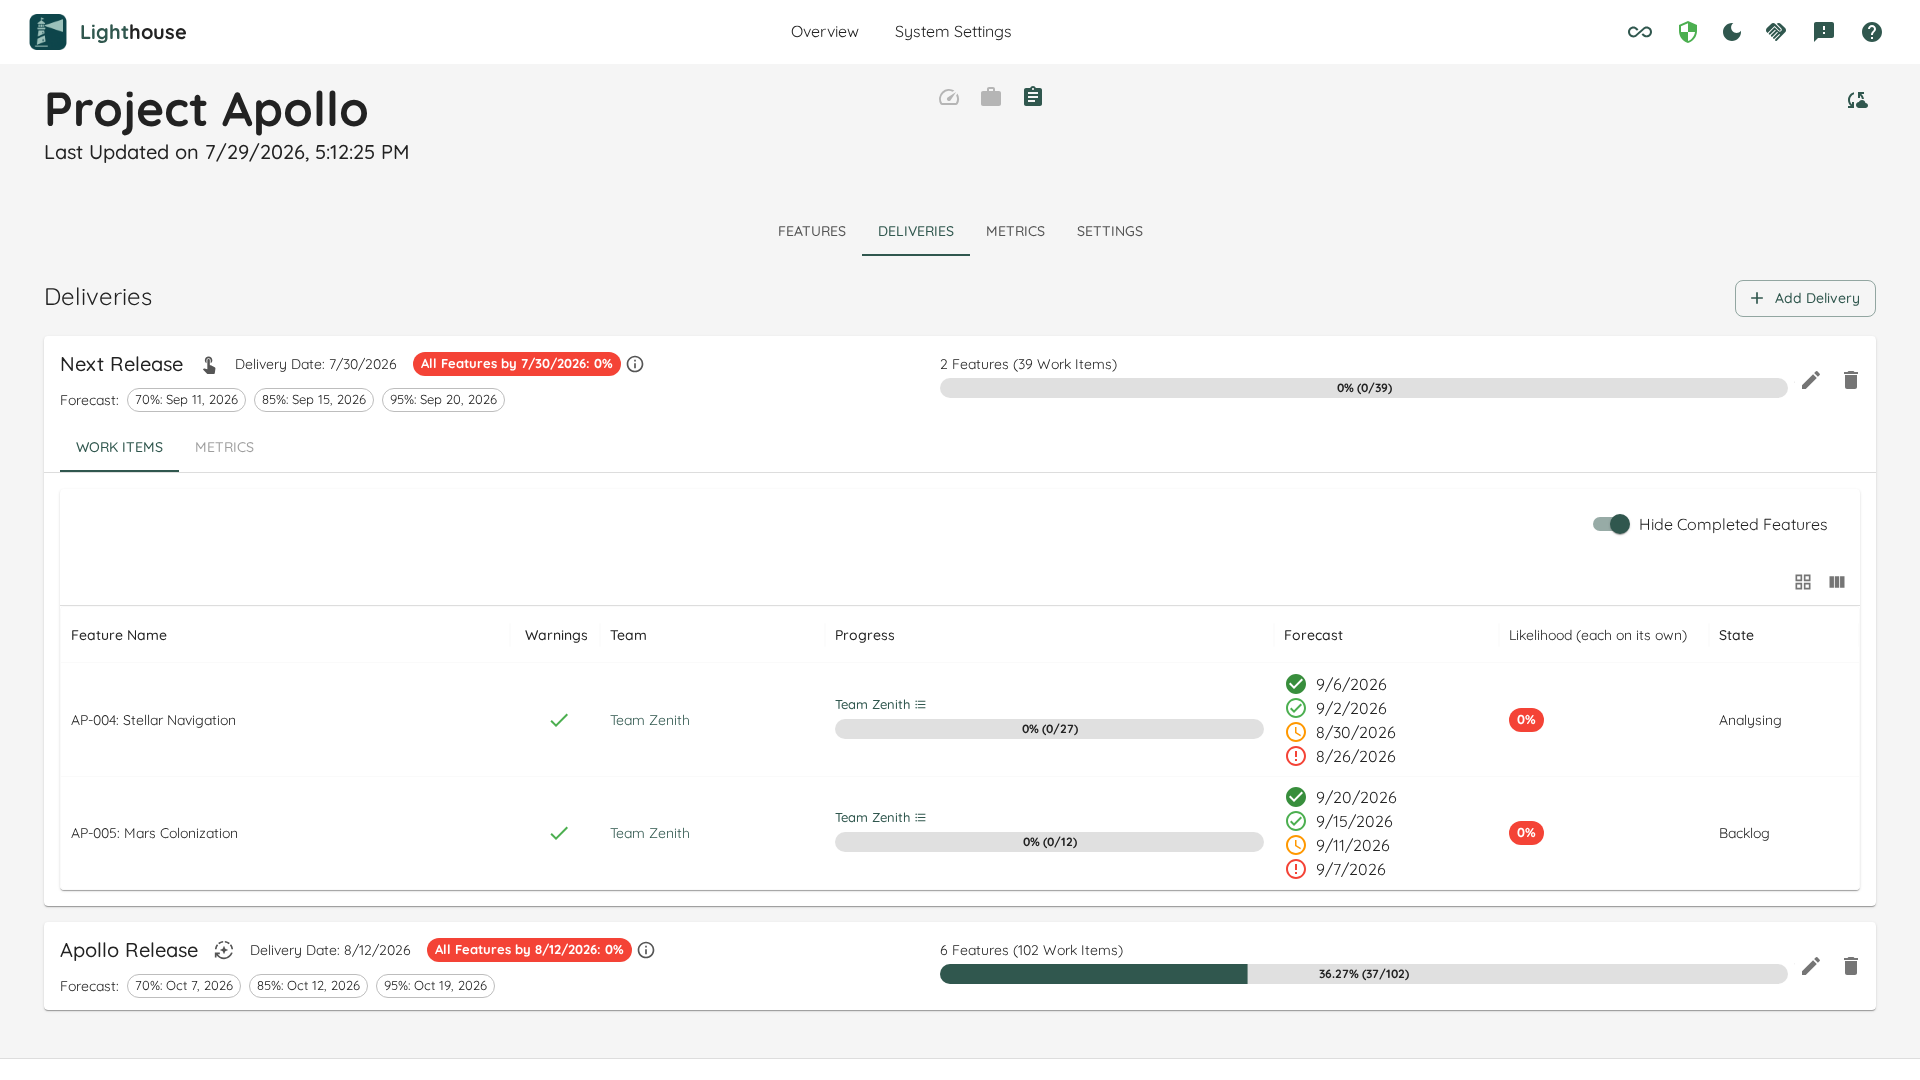
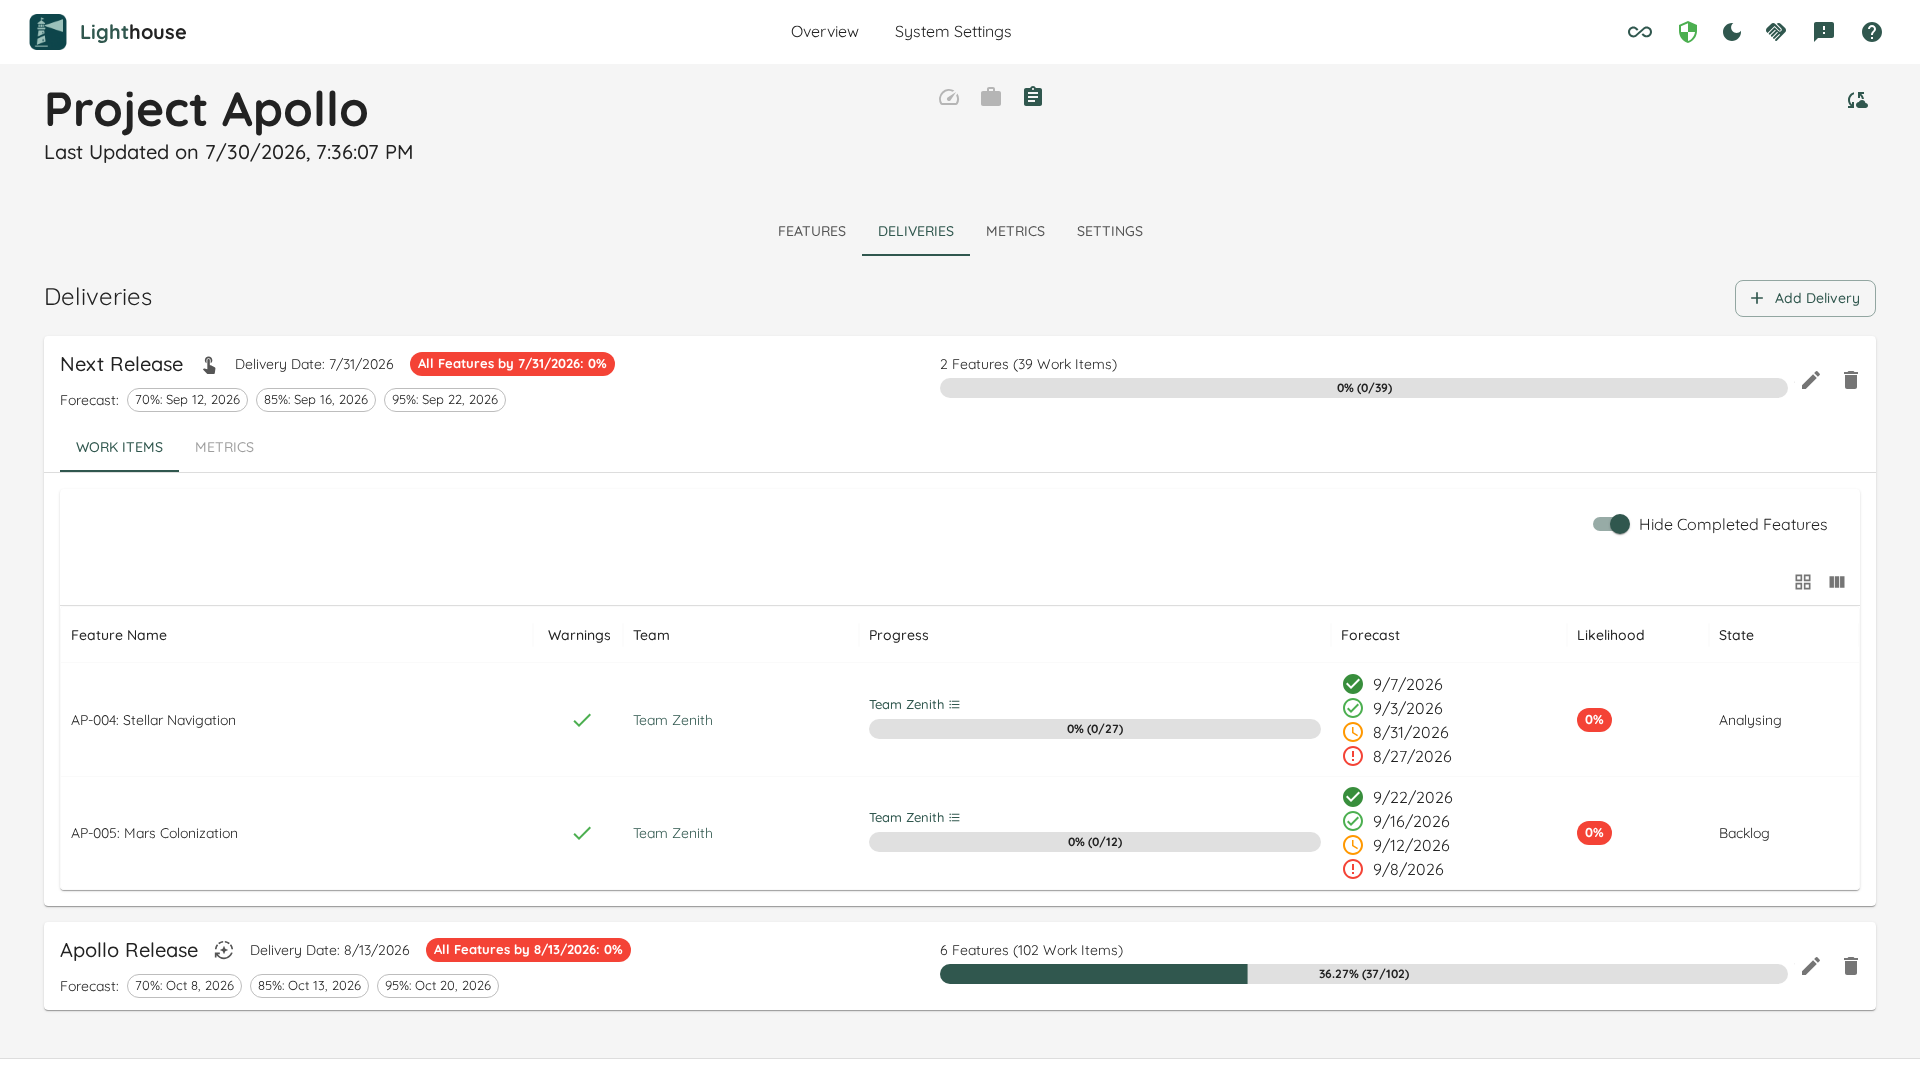
feat(deliveries): drop the joint/marginal tooltips from the delivery grid
The delivery header chip already says "All {features} by {date}: NN%", which
is the whole framing a reader needs. The two affordances ADR-113 D1 paired
with it - an info icon explaining "P(ALL of these land by the date)" and a
column header reading "Likelihood (each on its own)" with its own tooltip -
explained the probability model in the UI rather than letting the copy carry
it. The maintainer asked for both to go: the column is now a plain
"Likelihood" and the icon is gone.

Journey D1 and jobs.yaml record the revision so the SSOT does not keep
describing tooltips that no longer ship; the delivery screenshots are
regenerated against the new UI.

Claude-Session: https://claude.ai/code/session_018ji5MnEZuKd9jTGQ3m3Lks

diff --git a/Lighthouse.Frontend/src/pages/Portfolios/Detail/Components/DeliveryGrid/DeliverySection.tsx b/Lighthouse.Frontend/src/pages/Portfolios/Detail/Components/DeliveryGrid/DeliverySection.tsx
@@ -2,7 +2,6 @@ import AutoModeIcon from "@mui/icons-material/AutoMode";
 import DeleteIcon from "@mui/icons-material/Delete";
 import EditIcon from "@mui/icons-material/Edit";
 import ExpandMoreIcon from "@mui/icons-material/ExpandMore";
-import InfoOutlinedIcon from "@mui/icons-material/InfoOutlined";
 import TouchAppIcon from "@mui/icons-material/TouchApp";
 import {
 	Accordion,
@@ -17,7 +16,7 @@ import {
 	Tooltip,
 	Typography,
 } from "@mui/material";
-import { type GridValidRowModel, gridClasses } from "@mui/x-data-grid";
+import type { GridValidRowModel } from "@mui/x-data-grid";
 import type React from "react";
 import { useCallback, useContext, useMemo, useState } from "react";
 import DeliveryBurnupChart from "../../../../../components/Common/Charts/DeliveryBurnupChart";
@@ -59,10 +58,8 @@ import { jointLikelihoodLabel } from "../../../../../utils/forecast/jointLikelih
 
 export const MINIMUM_METRIC_SNAPSHOTS = 3;
 
-// Locked copy, ADR-113 D1. Nothing here may promise the header is lower than every row (D5).
-const JOINT_LIKELIHOOD_TOOLTIP = "P(ALL of these land by the date)";
-const MARGINAL_LIKELIHOOD_HEADER = "Likelihood (each on its own)";
-const MARGINAL_LIKELIHOOD_TOOLTIP = "P(this one lands), ignoring the others";
+// ADR-113 D1. Nothing here may promise the header is lower than every row (D5).
+const MARGINAL_LIKELIHOOD_HEADER = "Likelihood";
 
 interface DeliverySectionProps {
 	delivery: Delivery;
@@ -233,15 +230,7 @@ const DeliverySection: React.FC<DeliverySectionProps> = ({
 			{
 				field: "likelihood",
 				headerName: MARGINAL_LIKELIHOOD_HEADER,
-				renderHeader: ({ colDef }) => (
-					<div
-						className={gridClasses.columnHeaderTitle}
-						title={MARGINAL_LIKELIHOOD_TOOLTIP}
-					>
-						{colDef.headerName}
-					</div>
-				),
-				minWidth: 210,
+				minWidth: 110,
 				flex: 0.3,
 				sortable: false,
 				renderCell: ({ row }) =>
@@ -272,7 +261,6 @@ const DeliverySection: React.FC<DeliverySectionProps> = ({
 		hasSufficientData: delivery.hasSufficientData,
 	});
 	let likelihoodLabel: string;
-	let jointFramingTooltip: string | undefined;
 	if (deliveryCannotBeForecast || deliveryLikelihood === null) {
 		likelihoodLabel = CANNOT_FORECAST_SHORT;
 	} else if (hasInsufficientData) {
@@ -286,7 +274,6 @@ const DeliverySection: React.FC<DeliverySectionProps> = ({
 				precision: "round",
 			}),
 		});
-		jointFramingTooltip = JOINT_LIKELIHOOD_TOOLTIP;
 	}
 
 	return (
@@ -426,46 +413,20 @@ const DeliverySection: React.FC<DeliverySectionProps> = ({
 										<Typography variant="body2" color="text.secondary">
 											Delivery Date: {delivery.getFormattedDate()}
 										</Typography>
-										<Box
+										<Chip
+											title={
+												deliveryCannotBeForecast
+													? cannotForecastReason(teamsWithoutForecast)
+													: undefined
+											}
+											label={likelihoodLabel}
+											size="small"
 											sx={{
-												display: "flex",
-												alignItems: "center",
-												gap: 0.5,
+												bgcolor: forecastLevel.color,
+												color: "#fff",
+												fontWeight: "bold",
 											}}
-										>
-											<Chip
-												title={
-													deliveryCannotBeForecast
-														? cannotForecastReason(teamsWithoutForecast)
-														: undefined
-												}
-												label={likelihoodLabel}
-												size="small"
-												sx={{
-													bgcolor: forecastLevel.color,
-													color: "#fff",
-													fontWeight: "bold",
-												}}
-											/>
-											{jointFramingTooltip && (
-												// title alone is mouse-only: the icon is aria-hidden and the
-												// span has no role, so the explanation would never reach a
-												// screen reader (R3 keeps title for the tests).
-												<Box
-													component="span"
-													role="img"
-													aria-label={jointFramingTooltip}
-													title={jointFramingTooltip}
-													sx={{
-														display: "flex",
-														alignItems: "center",
-														color: "text.secondary",
-													}}
-												>
-													<InfoOutlinedIcon fontSize="small" />
-												</Box>
-											)}
-										</Box>
+										/>
 									</Box>
 									<Box
 										sx={{

diff --git a/Lighthouse.Frontend/src/pages/Portfolios/Detail/Components/DeliveryGrid/DeliverySection.likelihoodCopy.test.tsx b/Lighthouse.Frontend/src/pages/Portfolios/Detail/Components/DeliveryGrid/DeliverySection.likelihoodCopy.test.tsx
@@ -13,9 +13,10 @@ import DeliverySection from "./DeliverySection";
  *
  * D1 is locked by the maintainer and is not re-designed here:
  *   header chip  → `All {featuresTerm} by {delivery.getFormattedDate()}: NN%`
- *                  info affordance → "P(ALL of these land by the date)"
- *   grid column  → "Likelihood (each on its own)"
- *                  header affordance → "P(this one lands), ignoring the others"
+ *   grid column  → "Likelihood"
+ *
+ * The explanatory affordances D1 originally paired with both surfaces were dropped on maintainer
+ * request (follow-up to Epic #5459): the framing stays in the header copy, the UI stops explaining it.
  *
  * Constraint A (terminology): every new domain noun comes from `getTerm(TERMINOLOGY_KEYS.FEATURES)`.
  * The terminology mock below is deliberately parameterised per test — a mock that hardcodes "Feature"
@@ -72,9 +73,6 @@ const DEFAULT_TERMINOLOGY: Record<string, string> = {
 	deliveries: "Deliveries",
 	workItems: "Work Items",
 };
-
-const HEADER_TOOLTIP = "P(ALL of these land by the date)";
-const COLUMN_TOOLTIP = "P(this one lands), ignoring the others";
 
 const teams: IEntityReference[] = [{ id: 1, name: "Team Alpha" }];
 
@@ -149,22 +147,12 @@ describe("DeliverySection joint/marginal copy (Story #5587 slice-03)", () => {
 		).toBeInTheDocument();
 	});
 
-	it("explains on the header what ALL means (AC-03.1)", () => {
-		renderSection(deliveryWith({}));
+	it("names the breakdown column plainly, with no explanatory affordance (AC-03.2)", () => {
+		const { container } = renderSection(deliveryWith({}));
 
-		// DT-14: the affordance carries the copy in a native `title`, the same mechanism the header
-		// chip already uses for cannotForecastReason. Queryable from RTL and from Playwright without
-		// a hover, which an MUI <Tooltip> is not.
-		expect(screen.getByTitle(HEADER_TOOLTIP)).toBeInTheDocument();
-	});
-
-	it("frames the breakdown column as the per-feature probability and says what it ignores (AC-03.2)", () => {
-		renderSection(deliveryWith({}));
-
-		expect(
-			screen.getByText(/Likelihood \(each on its own\)/),
-		).toBeInTheDocument();
-		expect(screen.getByTitle(COLUMN_TOOLTIP)).toBeInTheDocument();
+		expect(screen.getByText("Likelihood")).toBeInTheDocument();
+		expect(screen.queryByText(/each on its own/)).not.toBeInTheDocument();
+		expect(container.querySelector('[title*="P("]')).toBeNull();
 	});
 
 	it("builds the header from the renamed vocabulary rather than a literal (AC-03.3)", () => {
@@ -241,11 +229,6 @@ describe("DeliverySection states slice-03 must leave alone (Story #5587)", () =>
 			screen.getByTitle(/No throughput history for Team Meridian/),
 		).toBeInTheDocument();
 		expect(screen.queryByText(/^All /)).not.toBeInTheDocument();
-
-		// The affordance carries its copy in a title ATTRIBUTE, which queryByText cannot see - so
-		// without this the whole "only in the numeric state" rule is invisible and a "Cannot forecast"
-		// chip could ship beside a tooltip promising odds.
-		expect(screen.queryByTitle(HEADER_TOOLTIP)).not.toBeInTheDocument();
 	});
 
 	it("keeps the not-enough-data label, without the joint framing (AC-03.5, AC-02.6)", () => {
@@ -257,7 +240,6 @@ describe("DeliverySection states slice-03 must leave alone (Story #5587)", () =>
 
 		expect(screen.getByText(/not enough data/i)).toBeInTheDocument();
 		expect(screen.queryByText(/^All /)).not.toBeInTheDocument();
-		expect(screen.queryByTitle(HEADER_TOOLTIP)).not.toBeInTheDocument();
 	});
 
 	it("keeps the per-row chip's own cannot-forecast tooltip alongside the column header (AC-03.6)", () => {

diff --git a/Lighthouse.EndToEndTests/tests/specs/portfolios/DeliveryJointLikelihood.spec.ts b/Lighthouse.EndToEndTests/tests/specs/portfolios/DeliveryJointLikelihood.spec.ts
@@ -18,8 +18,8 @@ import {
  *
  * What this asserts, and what it deliberately does NOT:
  *   DOES  — the delivery header states it covers ALL features and carries the date (AC-03.1), the
- *           breakdown column states it ignores the others (AC-03.2), and both render in the real app
- *           with real terminology rather than a mocked getTerm.
+ *           breakdown column is named plainly (AC-03.2), and both render in the real app with real
+ *           terminology rather than a mocked getTerm.
  *   NOT   — the joint MATHS. Demo throughput moves, so pinning a percentage here would be a flake
  *           generator; the number is pinned in DeliveryJointForecastIntegrationTest, which asserts
  *           81 % against the same endpoint where the governing-feature answer is 90 %.
@@ -64,21 +64,13 @@ test("@walking_skeleton @driving_adapter @real-io @US-03 forecaster reads which 
 		await expect(delivery.forecastChip).not.toContainText(/lower than/i);
 	});
 
-	await test.step("the header explains what ALL means", async () => {
-		await expect(
-			delivery.container.getByTitle("P(ALL of these land by the date)"),
-		).toBeAttached();
-	});
-
-	await test.step("the breakdown column says it ignores the other features", async () => {
+	await test.step("the breakdown column is named plainly", async () => {
 		await delivery.toggleDetails();
 
-		await expect(delivery.likelihoodColumnHeader).toContainText(
+		await expect(delivery.likelihoodColumnHeader).toContainText("Likelihood");
+		await expect(delivery.likelihoodColumnHeader).not.toContainText(
 			"each on its own",
 		);
-		await expect(
-			page.getByTitle("P(this one lands), ignoring the others"),
-		).toBeAttached();
 	});
 });
 
